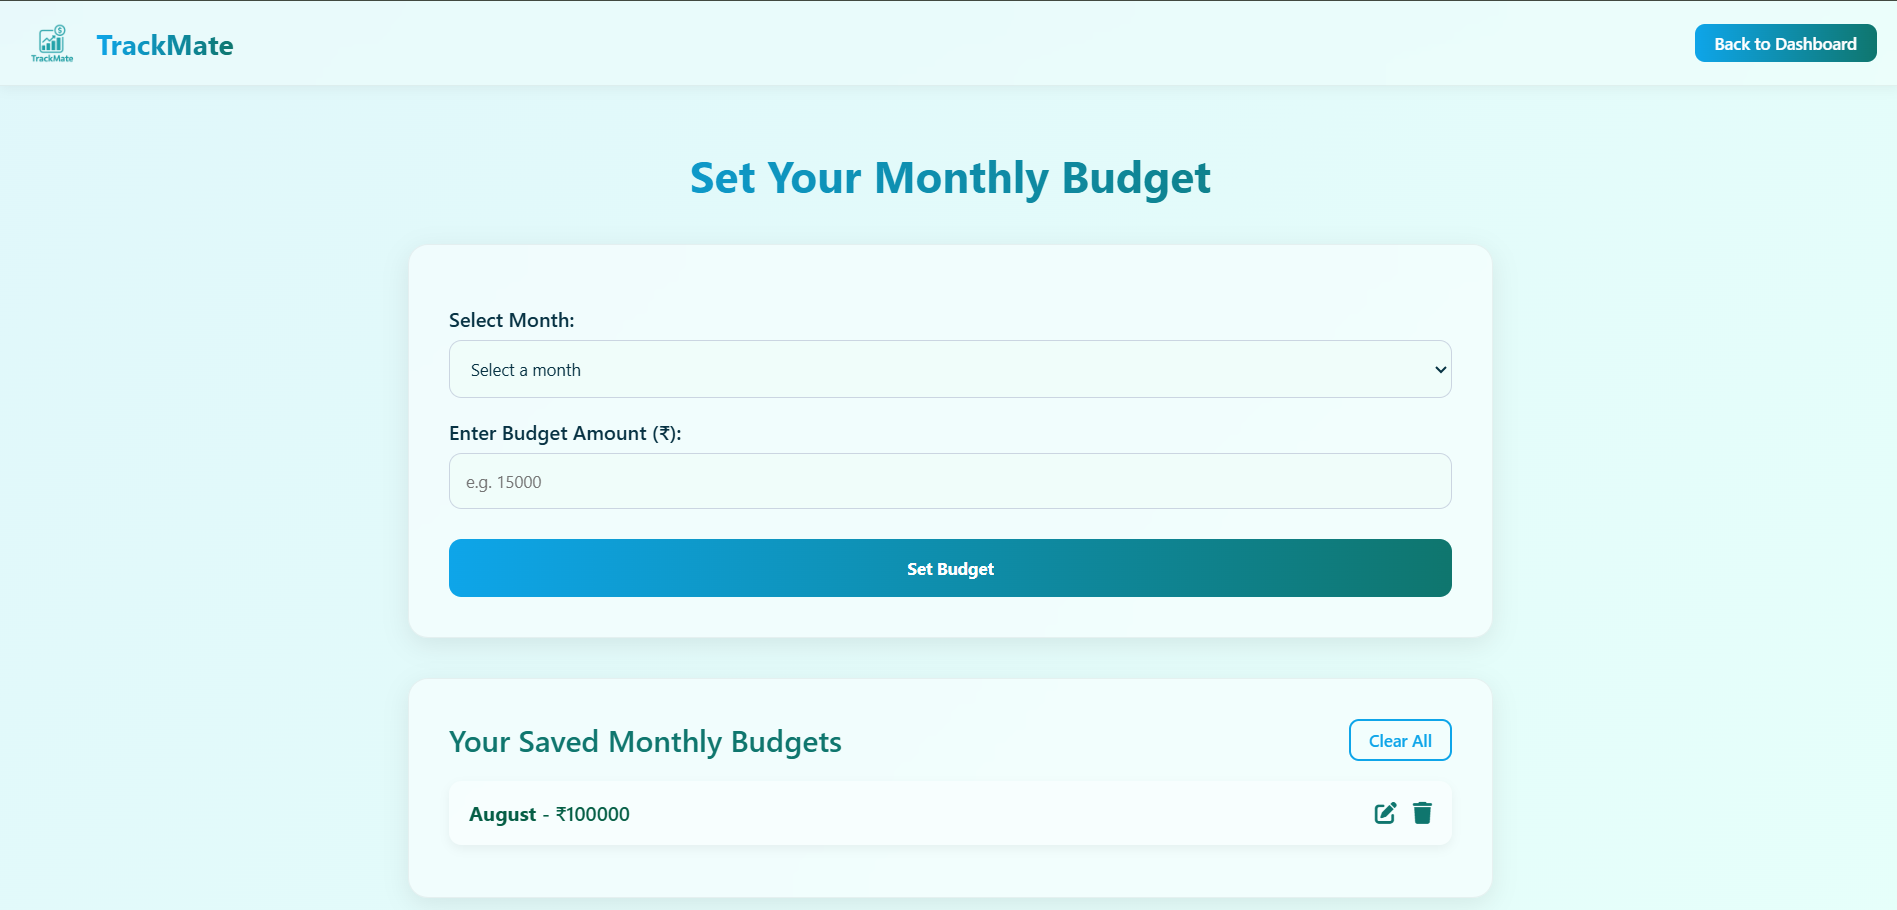
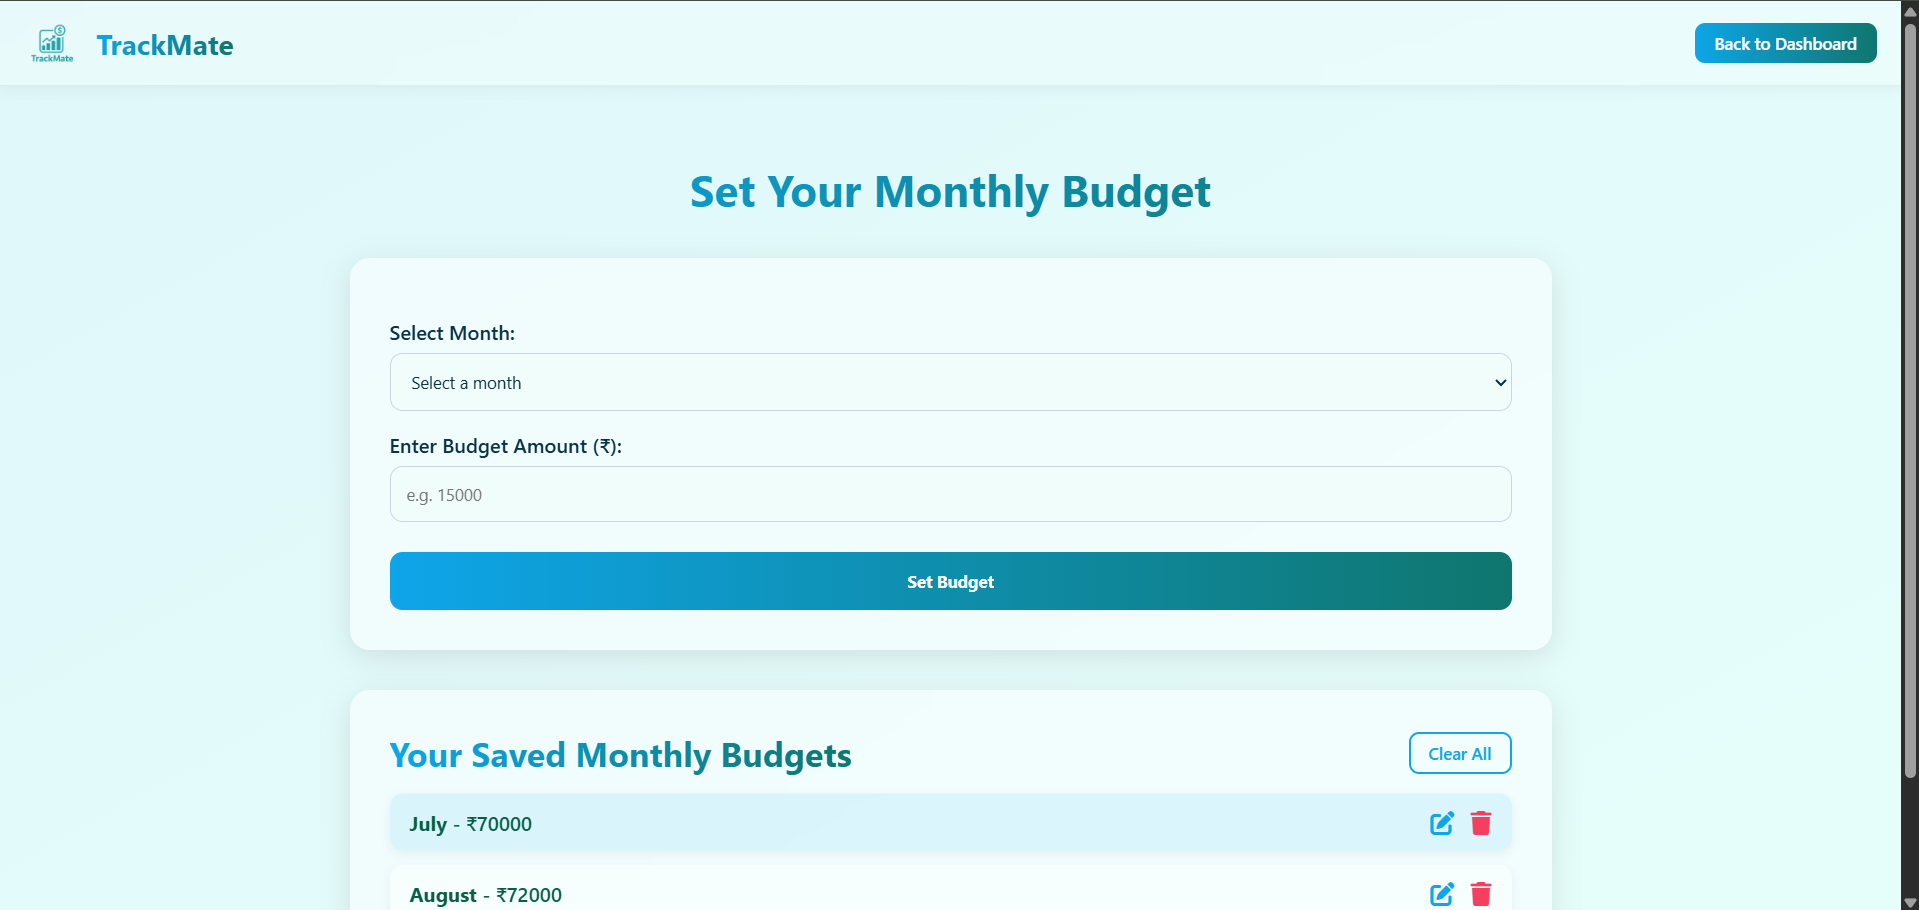
Updated images

diff --git a/src/css/budget.css b/src/css/budget.css
@@ -1,3 +1,4 @@
+/* Reset & Base */
 * {
   margin: 0;
   padding: 0;
@@ -6,7 +7,7 @@
 }
 
 body {
-  background: linear-gradient(135deg, #e0f7fa, #e6fffa);
+  background: linear-gradient(to bottom right, #e0f7fa, #e6fffa);
   color: #083344;
   min-height: 100vh;
 }
@@ -19,8 +20,8 @@ body {
   display: flex;
   justify-content: space-between;
   align-items: center;
-  border-bottom: 1px solid rgba(0, 0, 0, 0.05);
   box-shadow: 0 2px 10px rgba(0, 0, 0, 0.05);
+  border-bottom: 1px solid rgba(0, 0, 0, 0.05);
 }
 
 .logo-container {
@@ -45,12 +46,12 @@ body {
 .back-btn {
   background: linear-gradient(to right, #0ea5e9, #0f766e);
   border: none;
-  padding: 0.4rem 1rem;
+  padding: 0.45rem 1rem;
   color: white;
   font-weight: 600;
   border-radius: 8px;
   cursor: pointer;
-  transition: all 0.3s ease;
+  transition: transform 0.3s ease, box-shadow 0.3s ease;
 }
 
 .back-btn:hover {
@@ -58,16 +59,17 @@ body {
   box-shadow: 0 4px 12px rgba(14, 165, 233, 0.3);
 }
 
-/* Main Container */
+/* Container */
 .main-container {
-  max-width: 900px;
-  margin: 2rem auto;
-  padding: 1rem;
+  max-width: 1000px;
+  margin: 2.5rem auto;
+  padding: 1.2rem;
   display: flex;
   flex-direction: column;
   gap: 2rem;
 }
 
+/* Title */
 .title {
   text-align: center;
   font-size: 2.2rem;
@@ -77,67 +79,61 @@ body {
   color: transparent;
 }
 
-/* Cards */
+/* Glass Card */
 .glass-card {
   background: rgba(255, 255, 255, 0.5);
+  backdrop-filter: blur(15px);
   border-radius: 16px;
-  backdrop-filter: blur(20px);
   padding: 2rem;
-  border: 1px solid rgba(0, 0, 0, 0.05);
-  box-shadow: 0 6px 20px rgba(0, 0, 0, 0.08);
-  transition: transform 0.2s ease, box-shadow 0.3s ease;
-}
-
-.glass-card:hover {
-  transform: translateY(-2px);
-  box-shadow: 0 10px 30px rgba(0, 0, 0, 0.12);
+  box-shadow: 0 6px 24px rgba(0, 0, 0, 0.1);
 }
 
 /* Budget Form */
 .budget-form label {
   font-weight: 600;
-  margin-top: 1rem;
   display: block;
+  margin-top: 1rem;
 }
 
 .budget-form input,
 .budget-form select {
   width: 100%;
   padding: 0.8rem;
-  border: 1px solid #cbd5e1;
-  border-radius: 10px;
   margin-top: 0.4rem;
-  background-color: #f0fdfa;
+  border-radius: 10px;
+  border: 1px solid #cbd5e1;
+  background: #f0fdfa;
   color: #083344;
   transition: all 0.3s ease;
 }
 
 .budget-form input:focus,
 .budget-form select:focus {
-  border-color: #0ea5e9;
-  outline: none;
+  border: 1px solid #0ea5e9;
   box-shadow: 0 0 0 2px rgba(14, 165, 233, 0.2);
+  outline: none;
 }
 
+/* Save Button */
 .save-btn {
   width: 100%;
   margin-top: 1.5rem;
   padding: 0.9rem;
   background: linear-gradient(to right, #0ea5e9, #0f766e);
   color: white;
+  font-weight: bold;
   border: none;
   border-radius: 10px;
-  font-weight: bold;
   cursor: pointer;
-  transition: 0.3s ease;
+  transition: transform 0.2s ease;
 }
 
 .save-btn:hover {
-  transform: scale(1.03);
+  transform: translateY(-1px);
   box-shadow: 0 4px 14px rgba(14, 165, 233, 0.3);
 }
 
-/* Budget List */
+/* Budget List Section */
 .list-header {
   display: flex;
   justify-content: space-between;
@@ -145,12 +141,16 @@ body {
   margin-bottom: 1rem;
 }
 
+/* ✅ Updated: Stylish Heading */
 .section-heading {
-  font-size: 1.5rem;
-  font-weight: 600;
-  color: #0f766e;
+  font-size: 1.7rem;
+  font-weight: 700;
+  background: linear-gradient(to right, #0ea5e9, #0f766e);
+  -webkit-background-clip: text;
+  color: transparent;
 }
 
+/* Clear All Button */
 .clear-all-btn {
   background: transparent;
   border: 2px solid #0ea5e9;
@@ -159,25 +159,25 @@ body {
   padding: 0.4rem 0.9rem;
   font-weight: 600;
   cursor: pointer;
-  transition: 0.3s ease;
+  transition: all 0.3s ease;
 }
 
 .clear-all-btn:hover {
-  background-color: #0ea5e9;
+  background: #0ea5e9;
   color: white;
   transform: translateY(-1px);
 }
 
+/* Budget Items */
 .budget-list {
   list-style: none;
   padding-left: 0;
-  line-height: 1.8rem;
 }
 
 .budget-list li {
   background: rgba(255, 255, 255, 0.4);
   border-radius: 10px;
-  padding: 0.7rem 1rem;
+  padding: 0.75rem 1rem;
   margin-bottom: 0.6rem;
   color: #065f46;
   font-weight: 500;
@@ -185,20 +185,36 @@ body {
   display: flex;
   justify-content: space-between;
   align-items: center;
+  transition: background 0.3s, transform 0.2s ease;
 }
 
 .budget-list li:hover {
   background: rgba(14, 165, 233, 0.1);
   transform: translateY(-2px);
 }
+
+/* ✅ Updated Icon Colors */
 .icon-actions {
   display: flex;
   gap: 0.8rem;
-  font-size: 1.1rem;
-  color: #0f766e;
+  font-size: 1.2rem;
 }
 
-.edit-icon:hover,
+.edit-icon {
+  color: #0ea5e9;
+}
+
+.edit-icon:hover {
+  color: #0369a1;
+  cursor: pointer;
+  transform: scale(1.2);
+  transition: 0.2s ease;
+}
+
+.delete-icon {
+  color: #f43f5e;
+}
+
 .delete-icon:hover {
   color: #dc2626;
   cursor: pointer;

diff --git a/public/smarttips.html b/public/smarttips.html
@@ -18,37 +18,37 @@
   </header>
 
   <main class="container">
-    <h2 class="page-title">Smart Spending & Saving Tips</h2>
+    <h2 class="page-title"> Smart Spending & Saving Tips</h2>
 
     <!-- Inspirational Quote -->
     <section class="glass-box quote-box">
-      <p>💡 <em>“Do not save what is left after spending, but spend what is left after saving.”</em><br>— Warren Buffett</p>
+      <p>💡 <em>“Do not save what is left after spending, but spend what is left after saving.”</em><br><span class="quote-author">— Warren Buffett</span></p>
     </section>
 
-    <!-- Smart Tips List -->
+    <!-- Tips Section -->
     <section class="glass-box tips-list">
+      <h3 class="section-heading">Top Tips for Financial Wellness</h3>
       <ul>
-        <li><strong>🧾 Track Every Rupee:</strong> Record even small expenses — it adds up.</li>
-        <li><strong>📊 Plan Monthly:</strong> Allocate your budget across needs, wants, and savings.</li>
+        <li><strong>🧾 Track Every Rupee:</strong> Record even small expenses — they add up quickly.</li>
+        <li><strong>📊 Plan Monthly:</strong> Split your budget into Needs, Wants, and Savings.</li>
         <li><strong>🛍 Delay Impulse Buys:</strong> Use the 24-hour rule for non-essentials.</li>
-        <li><strong>💸 Automate Savings:</strong> Set up auto-debits to a savings account.</li>
-        <li><strong>💳 Use UPI & Cards Wisely:</strong> Treat digital money like physical cash.</li>
-        <li><strong>🧠 Weekly Reviews:</strong> Reflect on spending every Sunday night.</li>
-        <li><strong>🎯 Set Goals:</strong> Visualize what you're saving for — it builds discipline.</li>
-        <li><strong>📉 Cut Subscriptions:</strong> Audit and cancel unused services.</li>
+        <li><strong>💸 Automate Savings:</strong> Auto-debit money to a savings/investment account.</li>
+        <li><strong>💳 Use UPI & Cards Wisely:</strong> Stick to your digital budget like it's cash.</li>
+        <li><strong>🧠 Weekly Reviews:</strong> Reflect on your spending every Sunday night.</li>
+        <li><strong>🎯 Set Clear Goals:</strong> Save with a purpose — visualize your future.</li>
+        <li><strong>📉 Cut Subscriptions:</strong> Cancel anything unused or underutilized.</li>
       </ul>
     </section>
 
     <!-- Second Quote -->
     <section class="glass-box quote-box">
-      <p>📘 <em>"A budget is telling your money where to go, instead of wondering where it went."</em><br>— Dave Ramsey</p>
+      <p>📘 <em>"A budget is telling your money where to go, instead of wondering where it went."</em><br><span class="quote-author">— Dave Ramsey</span></p>
     </section>
   </main>
 
-  <!-- JavaScript for navigation -->
   <script>
     document.getElementById("backBtn").addEventListener("click", () => {
-      window.location.href = "dashboard.html"; // adjust path if needed
+      window.location.href = "dashboard.html";
     });
   </script>
 </body>

diff --git a/src/css/smarttips.css b/src/css/smarttips.css
@@ -1,4 +1,4 @@
-
+/* Reset & Base */
 * {
   margin: 0;
   padding: 0;
@@ -57,24 +57,26 @@ body {
   box-shadow: 0 4px 12px rgba(14, 165, 233, 0.3);
 }
 
+/* Container */
 .container {
   max-width: 1000px;
   margin: 2.5rem auto;
   padding: 0 1.5rem;
 }
 
-/* Titles */
+/* Page Title */
 .page-title {
   text-align: center;
-  font-size: 2.2rem;
-  margin-bottom: 2rem;
+  font-size: 2.4rem;
+  margin-bottom: 2.5rem;
   background: linear-gradient(to right, #0ea5e9, #0f766e);
   -webkit-background-clip: text;
   color: transparent;
   font-weight: bold;
+  line-height: 1.2;
 }
 
-/* Glass Box */
+/* Glassmorphism Box */
 .glass-box {
   background: rgba(255, 255, 255, 0.5);
   backdrop-filter: blur(15px);
@@ -88,6 +90,17 @@ body {
   transform: translateY(-2px);
 }
 
+/* Section Heading */
+.section-heading {
+  font-size: 1.5rem;
+  margin-bottom: 1.5rem;
+  font-weight: 600;
+  text-align: center;
+  background: linear-gradient(to right, #0ea5e9, #0f766e);
+  -webkit-background-clip: text;
+  color: transparent;
+}
+
 /* Tips List */
 .tips-list ul {
   list-style: none;
@@ -96,22 +109,37 @@ body {
   line-height: 1.8;
 }
 .tips-list li {
-  background: rgba(255, 255, 255, 0.6);
-  margin-bottom: 1rem;
-  padding: 0.85rem 1.2rem;
-  border-radius: 12px;
-  box-shadow: 0 3px 10px rgba(0, 0, 0, 0.05);
+  background: rgba(255, 255, 255, 0.65);
+  margin-bottom: 1.2rem;
+  padding: 1rem 1.4rem;
+  border-radius: 16px;
+  box-shadow: 0 6px 15px rgba(0, 0, 0, 0.06);
+  transition: transform 0.2s ease;
+}
+.tips-list li:hover {
+  transform: translateY(-2px);
+  background: rgba(255, 255, 255, 0.75);
 }
 
 /* Quotes */
 .quote-box {
   font-style: italic;
-  font-size: 1.05rem;
+  font-size: 1.1rem;
   background: rgba(255, 255, 255, 0.45);
   color: #134e4a;
   border-left: 6px solid #0ea5e9;
+  border-radius: 12px;
 }
 .quote-box p {
   margin: 0;
   padding-left: 0.8rem;
+  line-height: 1.6;
+}
+
+.quote-author {
+  display: block;
+  font-size: 1rem;
+  font-style: normal;
+  margin-top: 0.5rem;
+  color: #0f766e;
 }
